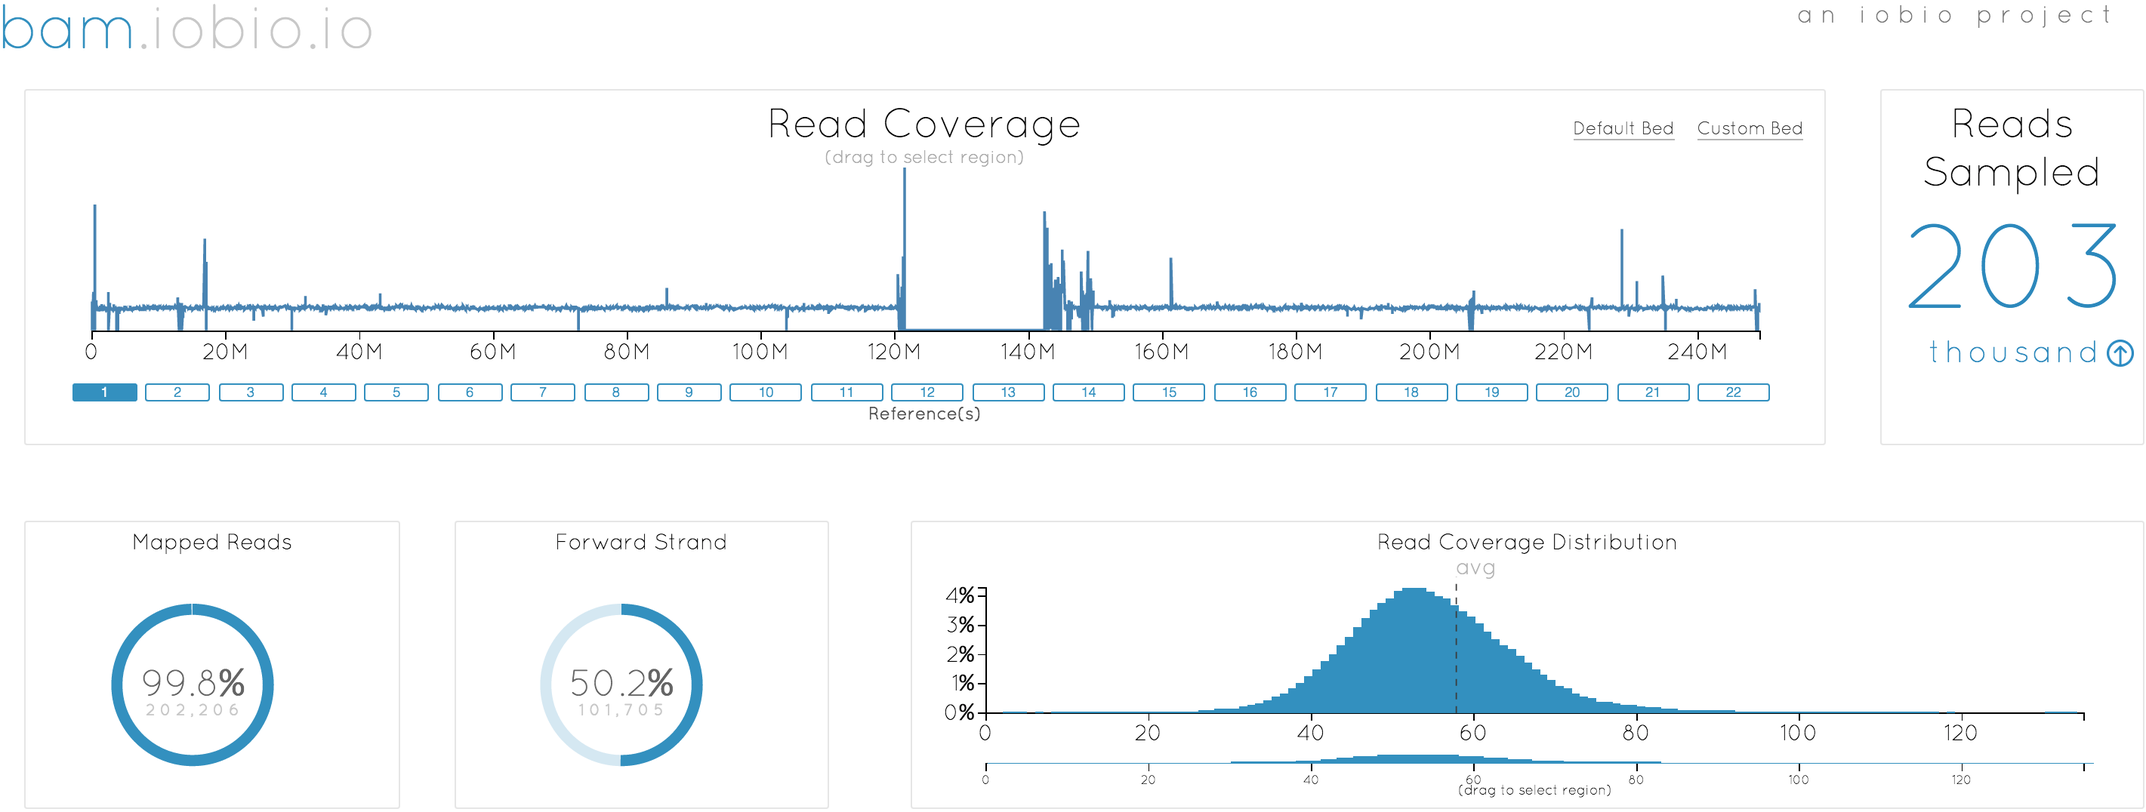
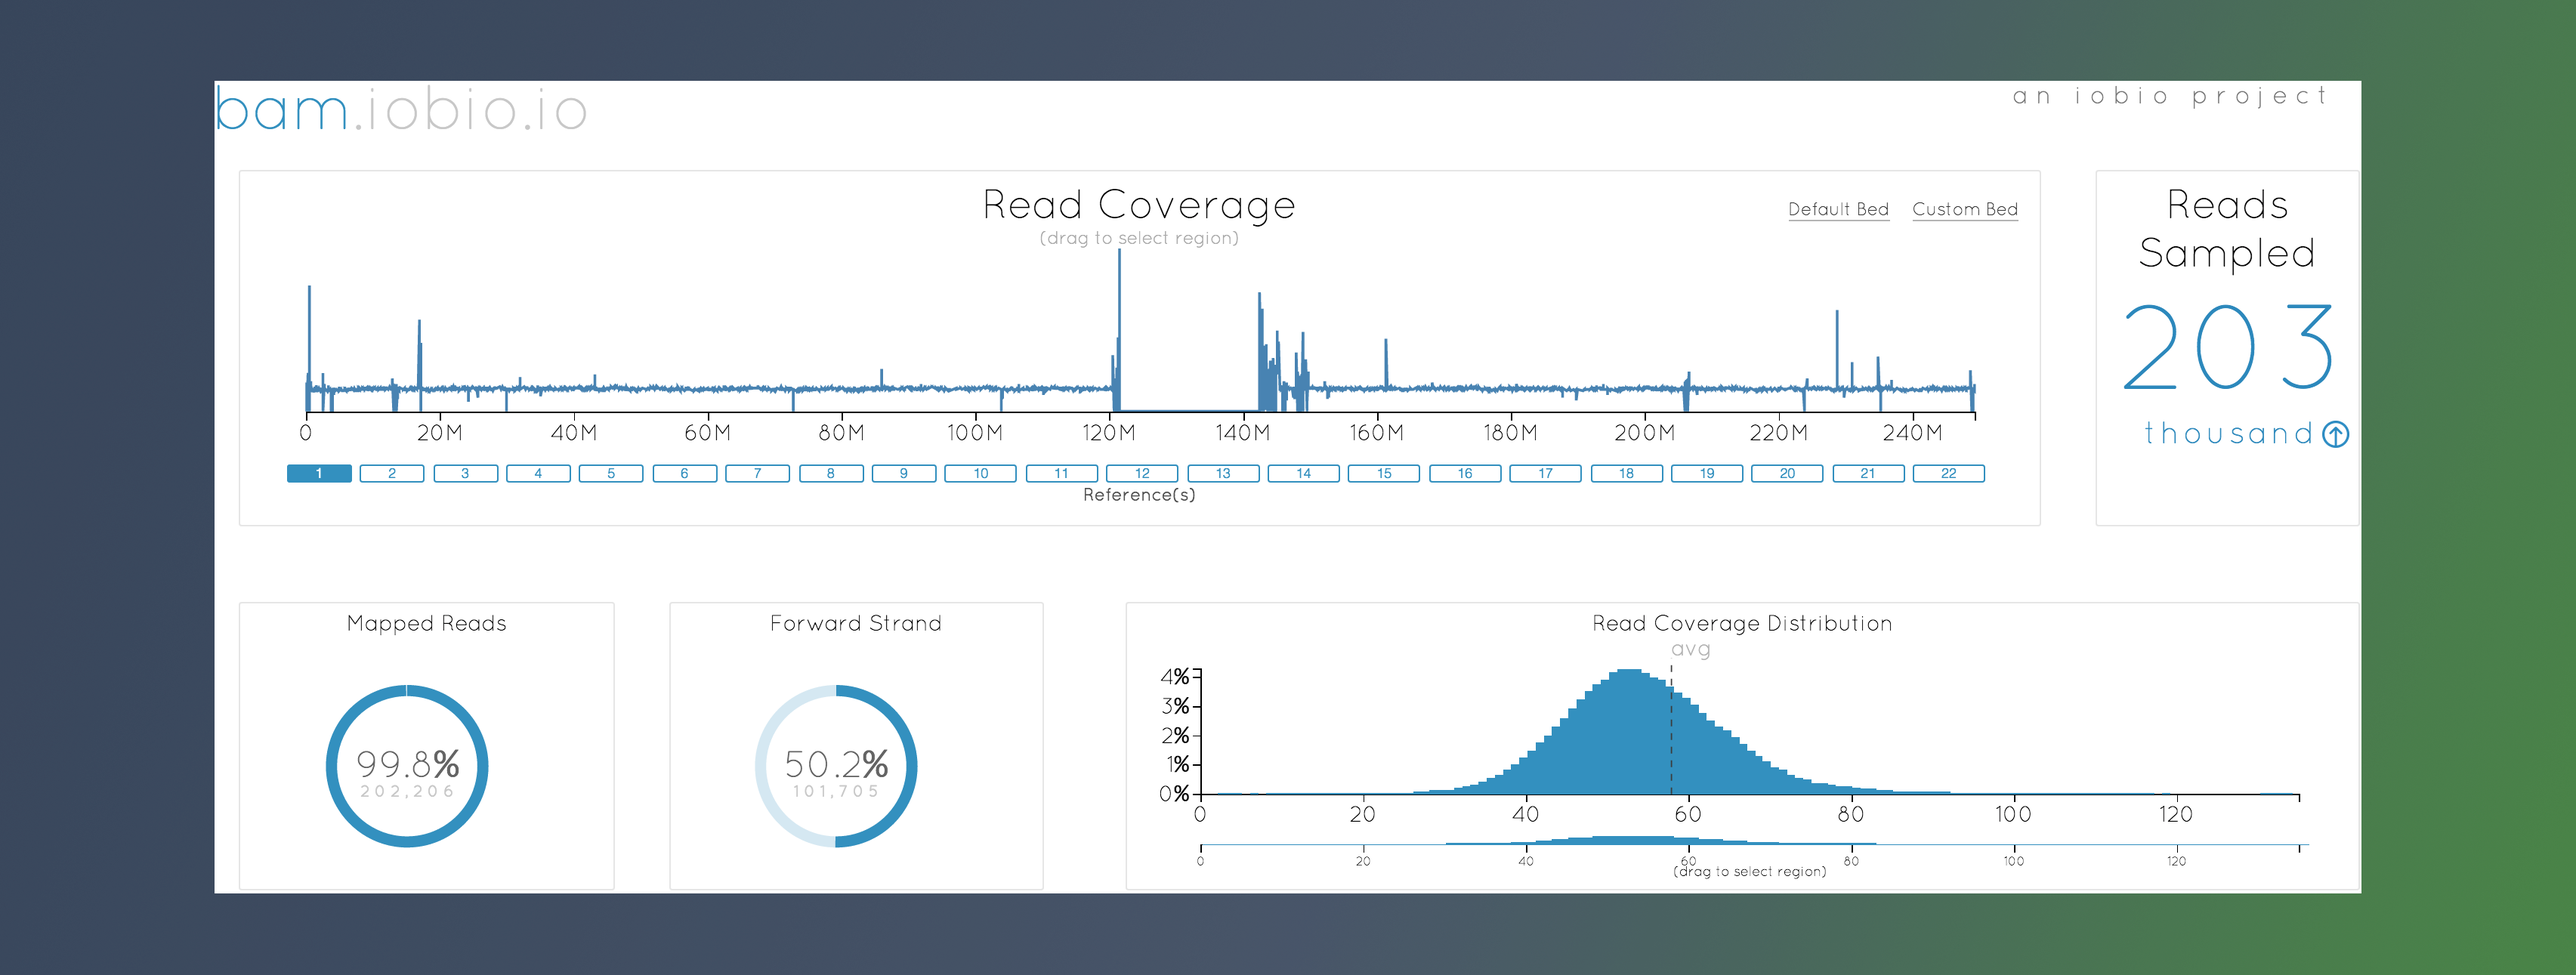
1. Added dark background to some of the blog post images. 2. Change Tony mug shot. 3. Added bunch of images for upcoming blog post. 4. Added blog post on running Tabix and iTabixIt. 5. Fixed bug with 3 across grid for blog items for Chrome (added float: left to middle blog snippet).

diff --git a/public/css/site.css b/public/css/site.css
@@ -194,10 +194,11 @@ a { color:rgb(110,110,110); text-decoration: underline;}
   margin-bottom: 50px;
   box-sizing: border-box;
   position: relative;  
+  float: left;
 }
 
 .posts li:nth-child(3n+1) { float:left; clear:both; margin-right: 2%;}
-.posts li:nth-child(3n+3) { float:right; margin-right: 4px}
+.posts li:nth-child(3n+3) { float:right !important; margin-right: 4px}
 .posts .snippet { 
   /*border: 1px solid rgb(200,200,200);*/
   /*font-family: 'Open Sans', sans-serif;*/   
@@ -222,10 +223,11 @@ a { color:rgb(110,110,110); text-decoration: underline;}
 
 .post { width: 900px; margin-left: auto; margin-right: auto;}
 .post .post-title { font-size: 60px;}
-.post .post-image img { width: 900px;}
+.post .post-image { text-align: center;}
+.post .post-image img { width: 900px; }
 .post .post-date { font: 300 17px "Open Sans"; color: rgb(160,160,160); display: inline-block; }
 .post .post-author { font: 400 17px "Open Sans"; color: rgb(120,120,120); display: inline-block;}
-.post .post-content { font: 400 20px "Open Sans"; color: rgb(100,100,100);}
+.post .post-content { font: 400 20px "Open Sans"; color: rgb(100,100,100); margin-top: 30px; margin-bottom: 50px;}
 .post .post-headshot { height: 30px; vertical-align: middle}
 .post h1 { font-size: 48px; font-weight: bold;}
 .post h2 { font-size: 44px; font-weight: bold;}
@@ -244,6 +246,11 @@ a { color:rgb(110,110,110); text-decoration: underline;}
 .footer img { height: 35px; vertical-align: middle}
 .footer .title {font-size:15px;font-family:quicksand; margin: 0px auto 0px auto; width:400px; color:#2d8fc1}
 
+
+.tweet-feed iframe{
+    margin:0 auto !important;
+    display:block;
+}
 
 
 /* For mobile phones in portrait view */

diff --git a/public/css/poole.css b/public/css/poole.css
@@ -88,14 +88,14 @@ h1, h2, h3, h4, h5, h6 {
   text-rendering: optimizeLegibility;
 }
 h1 {
-  font-size: 2rem;
+  font-size: 2.5rem;
 }
 h2 {
-  margin-top: 1rem;
+  margin-top: 2.5rem;
   font-size: 1.5rem;
 }
 h3 {
-  margin-top: 1.5rem;
+  margin-top: 2.5rem;
   font-size: 1.25rem;
 }
 h4, h5, h6 {

diff --git a/_posts/2015-09-03-install-run-tabix.md b/_posts/2015-09-03-install-run-tabix.md
@@ -1,0 +1,65 @@
+---
+layout: post
+title: Creating a compressed and indexed VCF
+image: /public/images/blog/tabix.png
+subtitle: The .vcf.gz and .vcf.gz.tbi file pair
+tags:
+  - Yi Qiao
+---
+
+Compressing VCF files with BGZip and indexing it with Tabix is the standard way VCF files are stored, and is the format that iobio apps support. The software to compress and index VCF files is called Tabix, developed by Heng Li at the Broad Institute. 
+
+### For MacOS systems
+
+We provide a simple Mac App for compressing and indexing vcf files using Tabix.
+
+* Download the [iTabixIt App](http://vcf.iobio.io/tabix/iTabixit.zip).
+* Double-click to decompress it.
+* Download the [Tabix and Bgzip binaries](http://vcf.iobio.io/tabix/TabixBinary.zip).
+* Double-click to decompress it in the same parent folder as the iTabixApp.
+* Now you should see an icon for the iTabixApp and a folder for the binaries.
+
+<div style="text-align:center">
+	<img src="/public/images/blog/tabix1.png" style="width:20%"/>
+</div>
+
+* Now double-click on the iTabixIt icon to launch the app.
+* Select a .vcf file.  The app will start processing to compress and index the .vcf file.
+
+<div style="text-align:center">
+	<img src="/public/images/blog/tabix2.png" style="width:50%"/>
+</div>
+
+* When the app is down compressing and indexing the VCF file, green dots will appear next to the completed items.
+
+<div style="text-align:center">
+	<img src="/public/images/blog/tabix3.png" style="width:50%"/>
+</div>
+
+* Now the .vcf.gz and .vcf.gz.tbi files will be created in the same directory as the .vcf file. Now you are ready to run vcf.iobio or gene.iobio, selecting these two files when prompted.
+
+
+
+### For Linux-based system
+
+*  Download the latest tabix jar at <http://sourceforge.net/projects/samtools/files/tabix/>.
+* Install C compiler and the 'make' utility with the package management system of your specific Linux distribution. In the case of Ubuntu, the following command should suffice:
+
+```
+	$ sudo apt-get install build-essential
+	$ tar -xjf tabix-0.2.6.tar.bz2
+	$ cd tabix-0.2.6
+	$ make
+```
+
+* Once you have successfully compiled Tabix (and bgzip), you can compress your vcf files with the following command:
+
+```	
+	$ /path/to/tabix/bgzip myvcf.vcf
+	$ /path/to/tabix/tabix -p vcf myvcf.vcf.gz
+```
+
+* These two commands will create two new files: the compressed vcf (.vcf.gz) and the index (.vcf.gz.tbi). Now you are ready to run vcf.iobio or gene.iobio, selecting these two files when prompted.
+
+The manual page for Tabix and BGZip can be found at <http://samtools.sourceforge.net/tabix.shtml>.
+

diff --git a/_posts/2015-08-04-gene.iobio_released.md b/_posts/2015-08-04-gene.iobio_released.md
@@ -1,7 +1,7 @@
 ---
 layout: post
 title: New app gene.iobio
-image: /public/images/gene.iobio_wide.png
+image: /public/images/blog/gene.iobio.png
 subtitle: interrogate potential disease-causing variants
 tags:
   - Chase Miller
